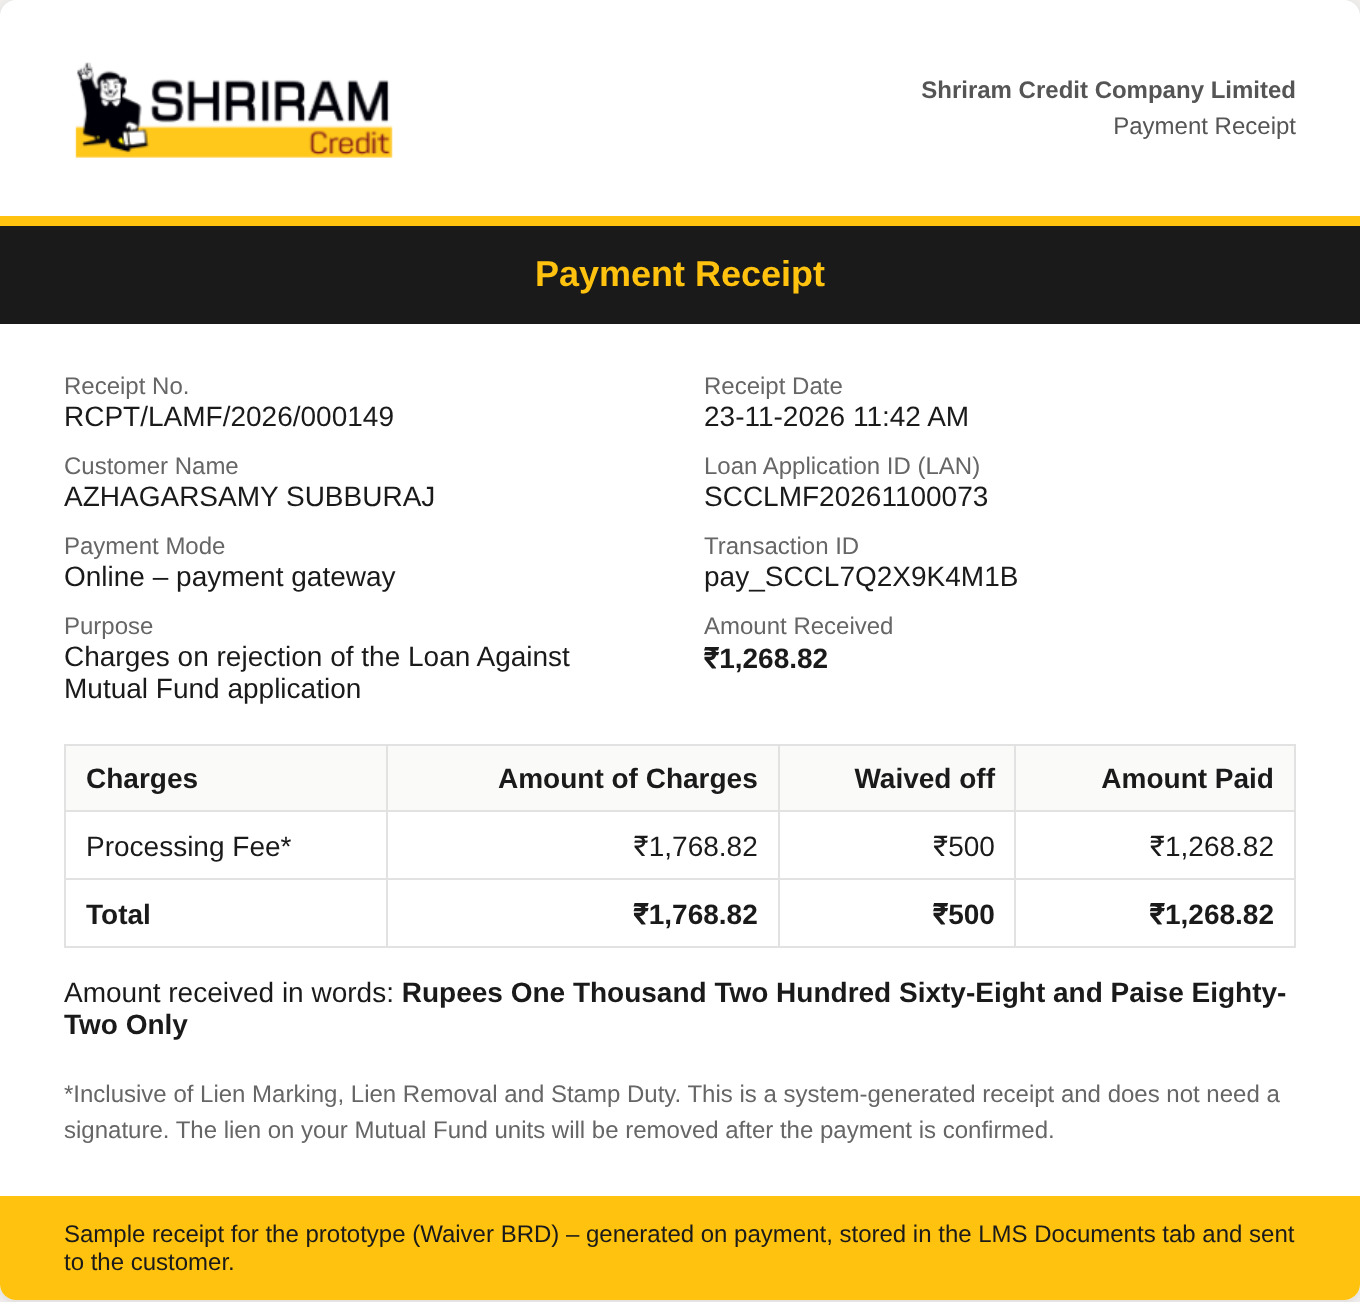
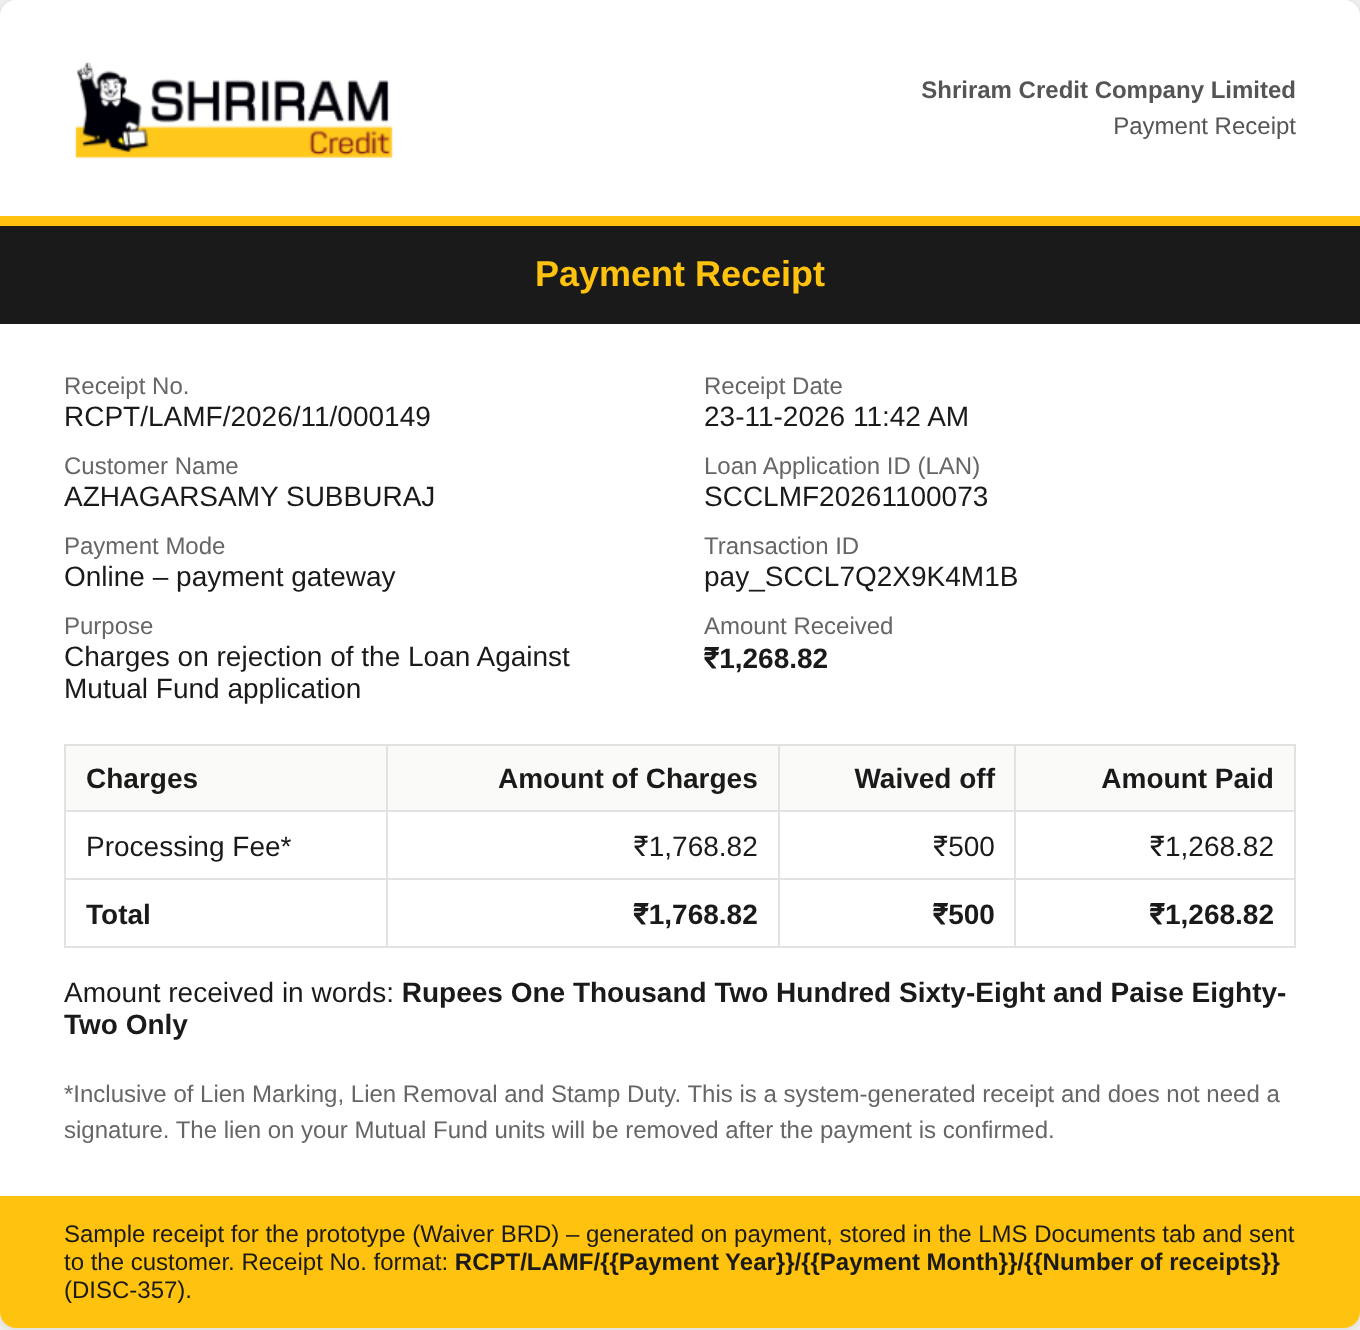
Log DISC-357 and retake receipt / payment screenshots
Claude-Session: https://claude.ai/code/session_01FsVs5RNJ4JXhPDXV9bN1Kw

diff --git a/LAMF_LOS_DISCUSSION_LOG.md b/LAMF_LOS_DISCUSSION_LOG.md
@@ -6,7 +6,7 @@
 **System:** LOS – Customer Online Journey
 **Document Type:** Discussion & Decision Log
 **Status:** Living Document
-**Last Updated:** 23-11-2026 14:08 IST
+**Last Updated:** 23-11-2026 15:38 IST
 
 **Prototype location:** `LOCAL/lamf-journey/` (37 HTML screens + shared `assets/lamf.css`, `assets/lamf.js`)
 **Screenshot source:** `SCCL/LAMF/LOS/LOS/` (38 screenshots, UAT: `uatlamf.shriramcredit.in`)
@@ -389,6 +389,7 @@
 | DISC-354 | 23-11-2026 | brd-waive-off.html, lms.html, charges-payment.html, charges-receipt.html, internal/IC-12 – 14, new-mails/06, 08, communications.html, xlsx | Lien Marking, Lien Removal and Stamp Duty included in the Processing Fee | Owner shared their BRD.docx to correct and complete; “the charges Lien Marking Charge, Lien Removal Charge, Stamp Duty Charge are including with Processing Fee” – update the BRD and the communication | Only one charge now: Processing Fee (sample ₹999 + GST = ₹1,178.82), inclusive of Lien Marking, Lien Removal and Stamp Duty charges and GST, incurred when the units are pledged. Waiver BRD: charges list, scenarios 2 – 6 and 7 charge lists, column table, new bullet in section 4, audit examples, captions; owner's docx wording taken (“User cannot enter the waive-off amount greater than the actual amount of the charges”). LMS draft charges → Processing Fee only with an “inclusive of …” note. LOS Pay Charges, receipt, internal mails 12 – 14 and customer mail 06 show “Processing Fee*” with the footnote; samples ₹500 waived, ₹678.82 payable / paid. All BRD screenshots retaken. | Implemented |
 | DISC-355 | 23-11-2026 | brd-waive-off.html, lms.html, charges-payment.html, charges-receipt.html, internal/IC-12 – 14, new-mails/06, 08, communications.html, xlsx | Processing Fee structure | Owner shared the Processing Fee structure (inclusive of Lien Marking, Lien Removal and Stamp Duty, exclusive of GST): below ₹1,50,000 – ₹1,499; ₹1,50,000 to ₹10L – 1%; above ₹10L to ₹50L – 0.8%; above ₹50L – 0.5% | Waiver BRD section 4: Processing Fee structure table with an example per slab; charges list points to it. Sample changed from ₹999 + GST to ₹1,499 + GST = ₹1,768.82 (sample LAN sanctioned ₹1,25,000); with ₹500 waived the payable / paid amount is ₹1,268.82 – LMS, LOS Pay Charges, receipt (amount in words), internal mails 12 – 14, customer mails 06 / 08, row 38 SMS sample and the mail 03 sample (₹1,499 + GST) updated; screenshots retaken. | Implemented |
 | DISC-356 | 23-11-2026 | brd-waive-off.html, lms.html, charges-payment.html, charges-receipt.html, internal/IC-12 – 14, new-mails/03, 06, mails/28, communications.html, xlsx | “Processing Fee*” with the footnote; scenario 2 charges | Owner: wherever the Processing Fee appears show “Processing Fee* (*Inclusive of Lien Marking, Lien Removal and Stamp Duty)”; in scenario 2 the Lien Marking and Lien Removal charges apply | Footnote text everywhere: “*Inclusive of Lien Marking, Lien Removal and Stamp Duty” (replaces “*One-time Processing Fee, inclusive of … and GST” in mails 03 / 28 and 06, LOS page, receipt, internal mails 12 – 14). Scenario 2 (pledged, no Sanction Letter) → Lien Marking ₹450 + GST (₹531) and Lien Removal ₹100 + GST (₹118) again; scenario 3 onwards → Processing Fee* only (from the Sanction Letter). Waiver BRD: charges list, summary footnote, charges-by-scenario bullet, fee structure heading, column table; LMS draft scenario 2 LANs show Lien Marking + Lien Removal, scenario 3 / 4 show Processing Fee* with the footnote. Samples and screenshots moved to the scenario 3 LAN SCCLMF20261100073 (sanctioned ₹22,400 → ₹1,499 + GST). Other BRDs (Sanction Letter / KFS) not changed. | Implemented |
+| DISC-357 | 23-11-2026 | charges-receipt.html, charges-payment.html, lms.html, internal/IC-14.html, communications.html, brd-waive-off.html | Receipt number format | Owner: receipt number as RCPT/LAMF/{{Payment Year}}/{{Payment Month}}/{{Number of receipts}} | Sample receipt number now RCPT/LAMF/2026/11/000149 everywhere (receipt, LOS success page, LMS payment box / Documents / Audit, internal mail 14, customer mail 08 sample); the format is written on the receipt (prototype note) and in Waiver BRD section 9. Screenshots retaken. | Implemented |
 
 ---
 
